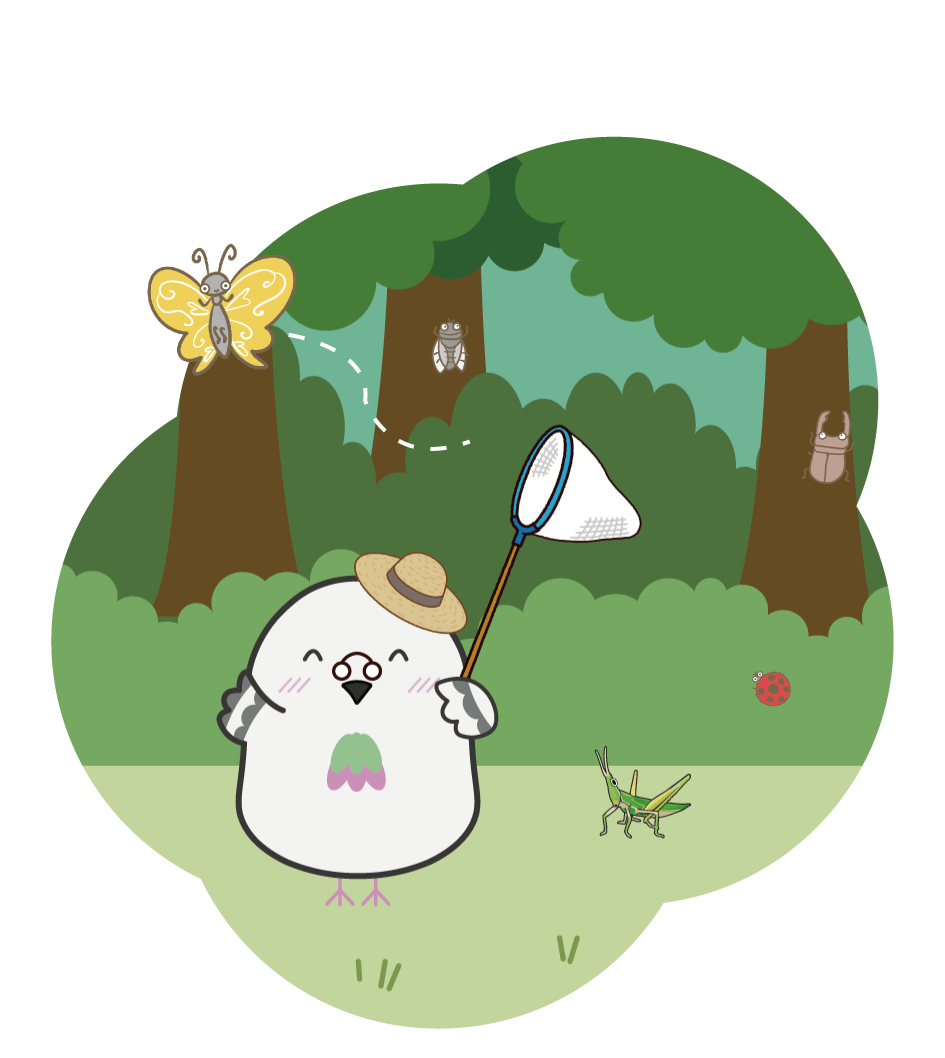
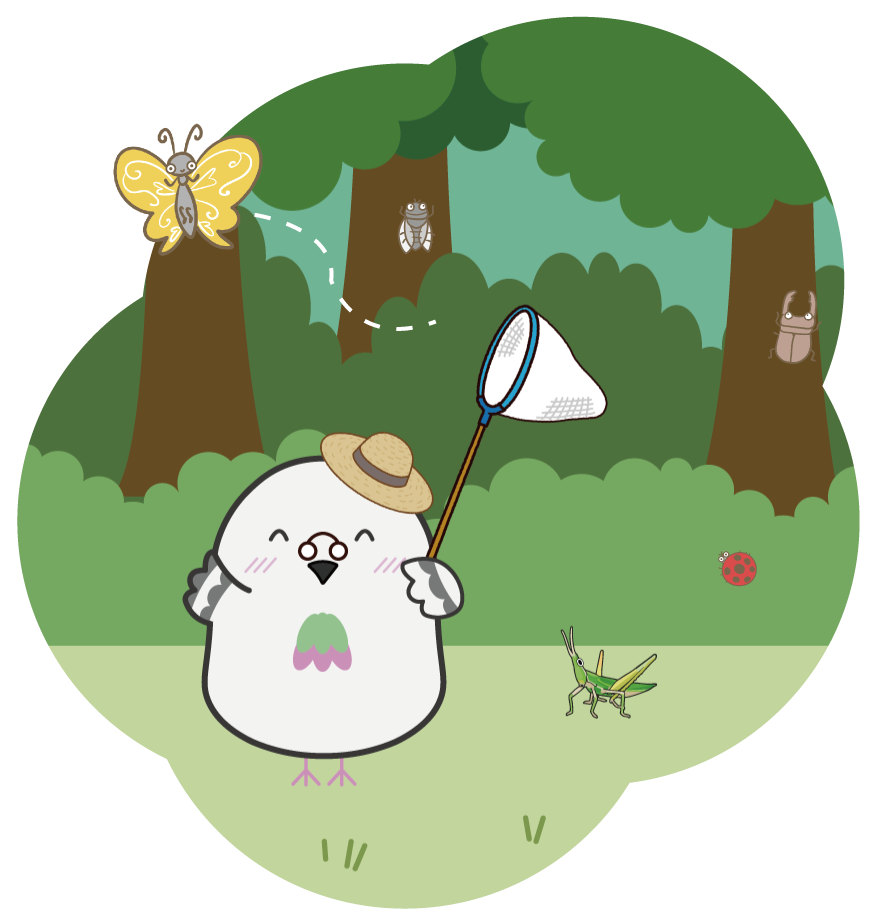
ゲームセクションの画像差し替え
ゲームセクションの画像差し替え

島田

diff --git a/front-page.php b/front-page.php
@@ -230,7 +230,7 @@
     <section>
         <h2 class="zoom_in"><span class="h2_first h2_first_pg">ぽ</span>ぽじろうとむしキャッチ！</h2>
         <div class="section_flex_reverse">
-            <img class="section_img zoom_in" src="<?php echo get_template_directory_uri(); ?>/assets/img/gamestart_popojiro_2.png" alt="キャラクター画像">
+            <img class="section_img zoom_in" src="<?php echo get_template_directory_uri(); ?>/assets/img/top/top_game.png" alt="キャラクター画像">
             <div class="inner_flex">
                 <p class="section_txt">カンタン操作、単純ルールで小さいお子様でも安心して遊べるゲームアプリです。<br>制限時間内に出てくる「むし」をタッチするとスコアが加算され、むしと一緒に登場する「おじゃまむし」をタッチすると時間が減り、時間が0になるとゲームオーバー！<br>目指せ、神レベル！！</p>
                 <div class="next_btn">
